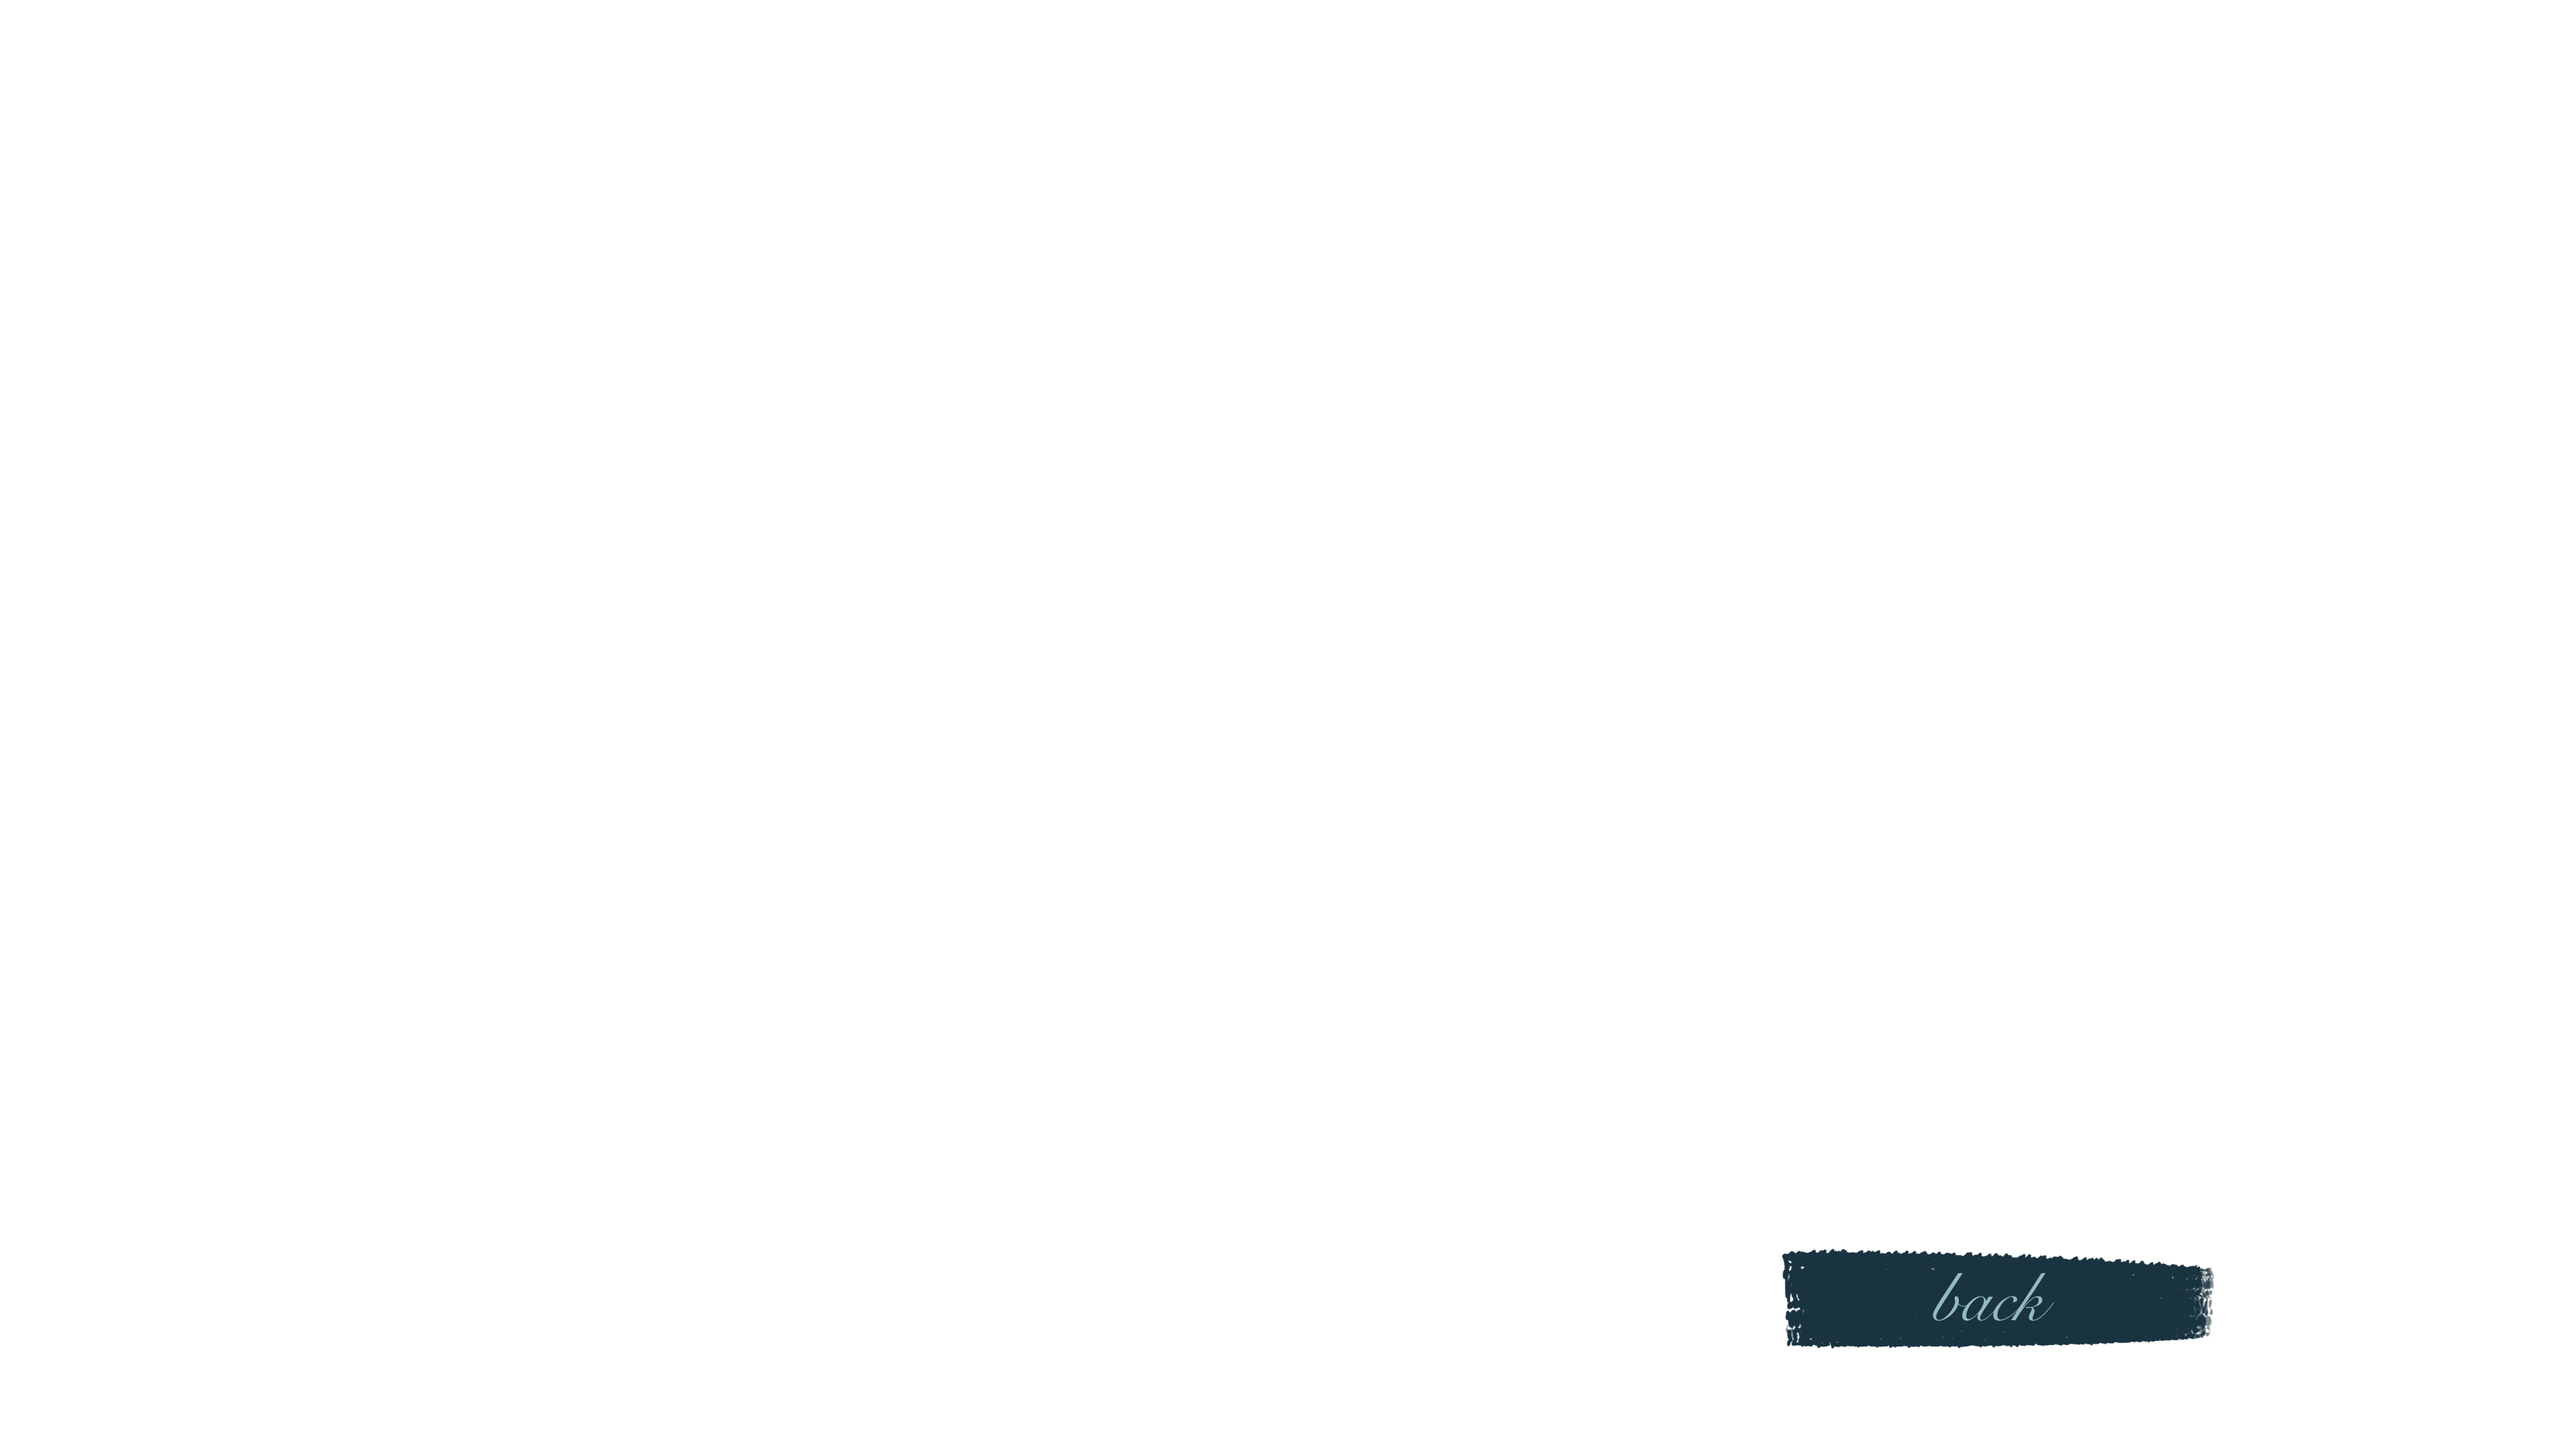
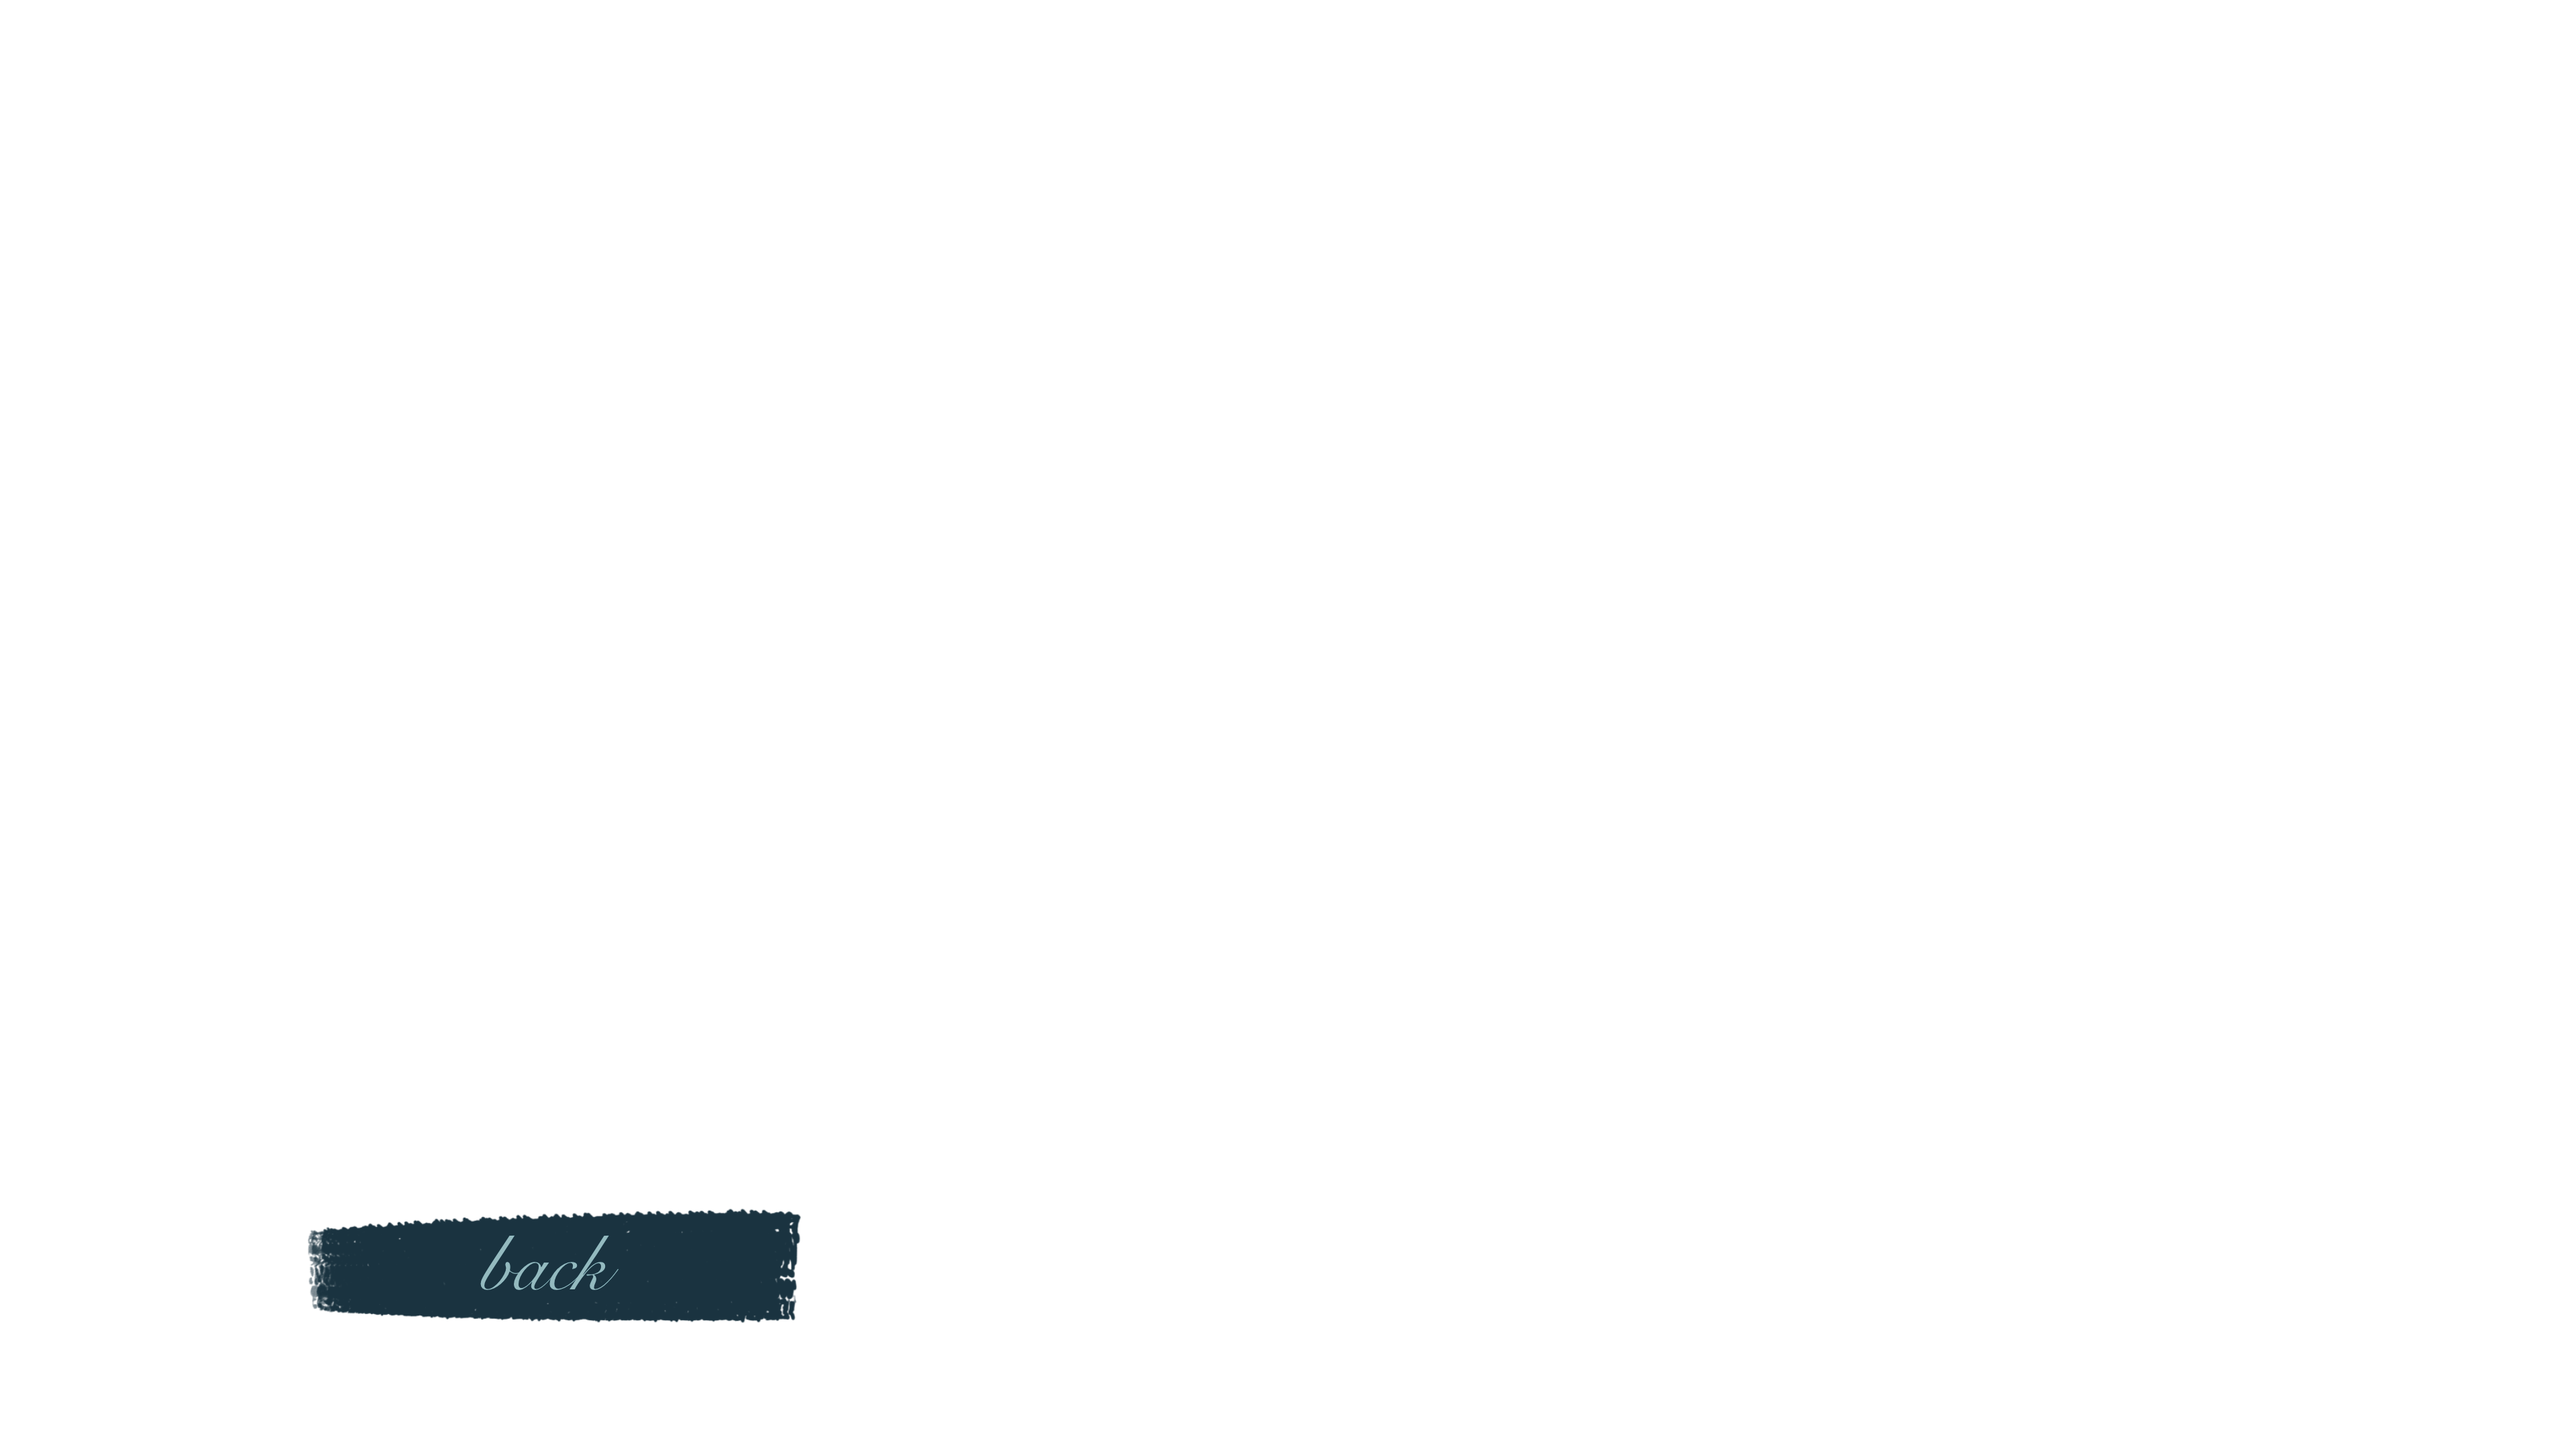
poprawki przycisków V2
ATAAAAAAAK

klonów

Changed region(s): [[0.0938, 0.8375, 0.3125, 0.9306], [0.6875, 0.8375, 0.875, 0.9306]]

diff --git a/ZTGKEngine/src/managers/SceneManager.h b/ZTGKEngine/src/managers/SceneManager.h
@@ -116,7 +116,8 @@ public:
 
 	void MenuSetup()
 	{
-		//menu->SetActive(false);
+#pragma region Menu
+
 		GraphNode* credits = new GraphNode();
 		GraphNode* options = new GraphNode();
 		GraphNode* firstTimeGameMode = new GraphNode();
@@ -166,6 +167,7 @@ public:
 		exitBtn->AddScript(new ActivateOnHoverScript(exitBtn, exitHover, true));
 		exitHover->AddScript(new DeactivateOnMouseLeave(exitHover));
 		exitHover->AddScript(new MenuScript(exitHover, menu, window, "exit"));
+#pragma endregion 
 
 #pragma region Credits
 		menu->AddChild(credits);
@@ -174,10 +176,8 @@ public:
 		GraphNode* creditsPNG = CreateUiElement(0, 0, *SCR_WIDTH, *SCR_HEIGHT, "res/models/awesome.jpg", textureShader);
 		credits->AddChild(creditsPNG);
 
-		GraphNode* backCredBtn = CreateUiElement(0, 0, *SCR_WIDTH, *SCR_HEIGHT, "res/models/optionsy/backBtn.png", textureShader);
-		GraphNode* backCredHover = CreateUiElement(0, 0, *SCR_WIDTH, *SCR_HEIGHT, "res/models/optionsy/backHover.png", textureShader);
-		//backCredBtn->Translate(glm::vec3(1200, 0, 0));
-		//backCredHover->Translate(glm::vec3(1200, 0, 0));
+		GraphNode* backCredBtn = CreateUiElement(0, 0, *SCR_WIDTH, *SCR_HEIGHT, "res/models/startGame/backBtn.png", textureShader);
+		GraphNode* backCredHover = CreateUiElement(0, 0, *SCR_WIDTH, *SCR_HEIGHT, "res/models/startGame/backHover.png", textureShader);
 		credits->AddChild(backCredBtn);
 		credits->AddChild(backCredHover);
 		backCredHover->SetActive(false);
@@ -194,8 +194,8 @@ public:
 		GraphNode* optionsBG = CreateUiElement(0, 0, *SCR_WIDTH, *SCR_HEIGHT, "res/models/optionsy/options_sounds.png", textureShader);
 		options->AddChild(optionsBG);
 
-		GraphNode* backOptBtn = CreateUiElement(0, 0, *SCR_WIDTH, *SCR_HEIGHT, "res/models/menu/menu_exit_button.png", textureShader);
-		GraphNode* backOptHover = CreateUiElement(0, 0, *SCR_WIDTH, *SCR_HEIGHT, "res/models/menu/menu_exit_button_hover.png", textureShader);
+		GraphNode* backOptBtn = CreateUiElement(0, 0, *SCR_WIDTH, *SCR_HEIGHT, "res/models/optionsy/backBtn.png", textureShader);
+		GraphNode* backOptHover = CreateUiElement(0, 0, *SCR_WIDTH, *SCR_HEIGHT, "res/models/optionsy/backHover.png", textureShader);
 		options->AddChild(backOptBtn);
 		options->AddChild(backOptHover);
 		backOptHover->SetActive(false);
@@ -228,27 +228,29 @@ public:
 
 		GraphNode* easyModeBtn = CreateUiElement(0, 0, *SCR_WIDTH, *SCR_HEIGHT, "res/models/optionsy/easyBtn.png", textureShader);
 		GraphNode* easyModeHover = CreateUiElement(0, 0, *SCR_WIDTH, *SCR_HEIGHT, "res/models/optionsy/easyHover.png", textureShader);
-		//easyModeBtn->Translate(glm::vec3(0, 400, 0));
-		//easyModeHover->Translate(glm::vec3(0, 400, 0));
+		GraphNode* easyModeChosen = CreateUiElement(0, 0, *SCR_WIDTH, *SCR_HEIGHT, "res/models/optionsy/easyChosen.png", textureShader);
 		options->AddChild(easyModeBtn);
 		options->AddChild(easyModeHover);
+		options->AddChild(easyModeChosen);
 		easyModeHover->SetActive(false);
+		easyModeChosen->SetActive(false);
 		easyModeBtn->AddScript(new ActivateOnHoverScript(easyModeBtn, easyModeHover, true));
 		easyModeHover->AddScript(new DeactivateOnMouseLeave(easyModeHover));
-		easyModeBtn->AddScript(new OptionsScript(easyModeBtn, "easy", true));
+		easyModeBtn->AddScript(new OptionsScript(easyModeBtn, "easy", true, easyModeChosen));
 		easyModeHover->AddScript(new OptionsScript(easyModeHover, "easy"));
 
-		GraphNode* mediumModeBtn = CreateUiElement(0, 0, *SCR_WIDTH, *SCR_HEIGHT, "res/models/optionsy/mediumBtn.png", textureShader);
-		GraphNode* mediumModeHover = CreateUiElement(0, 0, *SCR_WIDTH, *SCR_HEIGHT, "res/models/optionsy/mediumHover.png", textureShader);
-		//mediumModeBtn->Translate(glm::vec3(400, 400, 0));
-		//mediumModeHover->Translate(glm::vec3(400, 400, 0));
-		options->AddChild(mediumModeBtn);
-		options->AddChild(mediumModeHover);
-		mediumModeHover->SetActive(false);
-		mediumModeBtn->AddScript(new ActivateOnHoverScript(mediumModeBtn, mediumModeHover, true));
-		mediumModeHover->AddScript(new DeactivateOnMouseLeave(mediumModeHover));
-		mediumModeBtn->AddScript(new OptionsScript(mediumModeBtn, "medium", true));
-		mediumModeHover->AddScript(new OptionsScript(mediumModeHover, "medium"));
+		GraphNode* normalModeBtn = CreateUiElement(0, 0, *SCR_WIDTH, *SCR_HEIGHT, "res/models/optionsy/normalBtn.png", textureShader);
+		GraphNode* normalModeHover = CreateUiElement(0, 0, *SCR_WIDTH, *SCR_HEIGHT, "res/models/optionsy/normalHover.png", textureShader);
+		GraphNode* normalModeChoosen = CreateUiElement(0, 0, *SCR_WIDTH, *SCR_HEIGHT, "res/models/optionsy/normalChosen.png", textureShader);
+		options->AddChild(normalModeBtn);
+		options->AddChild(normalModeHover);
+		options->AddChild(normalModeChoosen);
+		normalModeHover->SetActive(false);
+		normalModeChoosen->SetActive(false);
+		normalModeBtn->AddScript(new ActivateOnHoverScript(normalModeBtn, normalModeHover, true));
+		normalModeHover->AddScript(new DeactivateOnMouseLeave(normalModeHover));
+		normalModeBtn->AddScript(new OptionsScript(normalModeBtn, "normal", true, normalModeChoosen));
+		normalModeHover->AddScript(new OptionsScript(normalModeHover, "normal"));
 
 #pragma endregion 		
 
@@ -291,14 +293,11 @@ public:
 		GraphNode* windowPNG = CreateUiElement(0, 0, *SCR_WIDTH, *SCR_HEIGHT, "res/models/dark_house.png", textureShader);
 		firstTimeGameMode->AddChild(windowPNG);
 
-		GraphNode* infoPNG = CreateUiElement(0, 0, *SCR_WIDTH, *SCR_HEIGHT, "res/models/optionsy/difficulty.png", textureShader);
+		GraphNode* infoPNG = CreateUiElement(0, 0, *SCR_WIDTH, *SCR_HEIGHT, "res/models/startGame/dificulty.png", textureShader);
 		firstTimeGameMode->AddChild(infoPNG);
-		infoPNG->Translate(glm::vec3(1000, 200, 0));
 
-		GraphNode* backGmBtn = CreateUiElement(0, 0, *SCR_WIDTH, *SCR_HEIGHT, "res/models/optionsy/backBtn.png", textureShader);
-		GraphNode* backGmHover = CreateUiElement(0, 0, *SCR_WIDTH, *SCR_HEIGHT, "res/models/optionsy/backHover.png", textureShader);
-		//backGmBtn->Translate(glm::vec3(1000, 0, 0));
-		//backGmHover->Translate(glm::vec3(1000, 0, 0));
+		GraphNode* backGmBtn = CreateUiElement(0, 0, *SCR_WIDTH, *SCR_HEIGHT, "res/models/startGame/startBtn.png", textureShader);
+		GraphNode* backGmHover = CreateUiElement(0, 0, *SCR_WIDTH, *SCR_HEIGHT, "res/models/startGame/startHover.png", textureShader);
 		firstTimeGameMode->AddChild(backGmBtn);
 		firstTimeGameMode->AddChild(backGmHover);
 		backGmHover->SetActive(false);
@@ -313,11 +312,9 @@ public:
 			gameModePieces[4]
 		));
 
-		GraphNode* easyGmBtn = CreateUiElement(0, 0, *SCR_WIDTH, *SCR_HEIGHT, "res/models/optionsy/easyBtn.png", textureShader);
-		GraphNode* easyGmHover = CreateUiElement(0, 0, *SCR_WIDTH, *SCR_HEIGHT, "res/models/optionsy/easyHover.png", textureShader);
-		GraphNode* easyGmChoosen = CreateUiElement(0, 0, *SCR_WIDTH, *SCR_HEIGHT, "res/models/optionsy/easyChosen.png", textureShader);
-		easyGmBtn->Translate(glm::vec3(1000, 200, 0));
-		easyGmHover->Translate(glm::vec3(1000, 200, 0));
+		GraphNode* easyGmBtn = CreateUiElement(0, 0, *SCR_WIDTH, *SCR_HEIGHT, "res/models/startGame/easyBtn.png", textureShader);
+		GraphNode* easyGmHover = CreateUiElement(0, 0, *SCR_WIDTH, *SCR_HEIGHT, "res/models/startGame/easyHover.png", textureShader);
+		GraphNode* easyGmChoosen = CreateUiElement(0, 0, *SCR_WIDTH, *SCR_HEIGHT, "res/models/startGame/easyChosen.png", textureShader);
 		firstTimeGameMode->AddChild(easyGmBtn);
 		firstTimeGameMode->AddChild(easyGmHover);
 		firstTimeGameMode->AddChild(easyGmChoosen);
@@ -328,20 +325,18 @@ public:
 		easyGmBtn->AddScript(new OptionsScript(easyGmBtn, "easy", true, easyGmChoosen));
 		easyGmHover->AddScript(new OptionsScript(easyGmHover, "easy"));
 
-		GraphNode* mediumGmBtn = CreateUiElement(0, 0, *SCR_WIDTH, *SCR_HEIGHT, "res/models/optionsy/normalBtn.png", textureShader);
-		GraphNode* mediumGmHover = CreateUiElement(0, 0, *SCR_WIDTH, *SCR_HEIGHT, "res/models/optionsy/normalHover.png", textureShader);
-		GraphNode* normalGmChoosen = CreateUiElement(0, 0, *SCR_WIDTH, *SCR_HEIGHT, "res/models/optionsy/normalChosen.png", textureShader);
-		//mediumGmBtn->Translate(glm::vec3(1000, 200, 0));
-		//mediumGmHover->Translate(glm::vec3(1000, 200, 0));
-		firstTimeGameMode->AddChild(mediumGmBtn);
-		firstTimeGameMode->AddChild(mediumGmHover);
+		GraphNode* normalGmBtn = CreateUiElement(0, 0, *SCR_WIDTH, *SCR_HEIGHT, "res/models/startGame/normalBtn.png", textureShader);
+		GraphNode* normalGmHover = CreateUiElement(0, 0, *SCR_WIDTH, *SCR_HEIGHT, "res/models/startGame/normalHover.png", textureShader);
+		GraphNode* normalGmChoosen = CreateUiElement(0, 0, *SCR_WIDTH, *SCR_HEIGHT, "res/models/startGame/normalChosen.png", textureShader);
+		firstTimeGameMode->AddChild(normalGmBtn);
+		firstTimeGameMode->AddChild(normalGmHover);
 		firstTimeGameMode->AddChild(normalGmChoosen);
-		mediumGmHover->SetActive(false);
+		normalGmHover->SetActive(false);
 		normalGmChoosen->SetActive(false);
-		mediumGmBtn->AddScript(new ActivateOnHoverScript(mediumGmBtn, mediumGmHover, true));
-		mediumGmHover->AddScript(new DeactivateOnMouseLeave(mediumGmHover));
-		mediumGmBtn->AddScript(new OptionsScript(mediumGmBtn, "medium", true, normalGmChoosen));
-		mediumGmHover->AddScript(new OptionsScript(mediumGmHover, "medium"));
+		normalGmBtn->AddScript(new ActivateOnHoverScript(normalGmBtn, normalGmHover, true));
+		normalGmHover->AddScript(new DeactivateOnMouseLeave(normalGmHover));
+		normalGmBtn->AddScript(new OptionsScript(normalGmBtn, "normal", true, normalGmChoosen));
+		normalGmHover->AddScript(new OptionsScript(normalGmHover, "normal"));
 
 #pragma endregion 
 

diff --git a/ZTGKEngine/src/main.cpp b/ZTGKEngine/src/main.cpp
@@ -6,15 +6,15 @@
 #include "SoundDevice.h"
 #include "Music.h"
 //#include "./utils/soundUtils.h"
-//extern "C"
-//{
-//    __declspec(dllexport) unsigned long NvOptimusEnablement = 0x00000001;
-//}
-//
-//extern "C"
-//{
-//    __declspec(dllexport) int AmdPowerXpressRequestHighPerformance = 1;
-//}
+extern "C"
+{
+    __declspec(dllexport) unsigned long NvOptimusEnablement = 0x00000001;
+}
+
+extern "C"
+{
+    __declspec(dllexport) int AmdPowerXpressRequestHighPerformance = 1;
+}
 
 void framebuffer_size_callback(GLFWwindow* window, int width, int height);
 void mouse_callback(GLFWwindow* window, double xpos, double ypos);

diff --git a/ZTGKEngine/src/scripts/OptionsScript.h b/ZTGKEngine/src/scripts/OptionsScript.h
@@ -46,7 +46,7 @@ public:
 			}
 			else
 			{
-				if (buttonId == "medium")
+				if (buttonId == "normal")
 				{
 					node->isHoverable = false;
 					choosen->SetActive(true);
@@ -85,7 +85,7 @@ public:
 			if (!isNotHover)
 				node->SetActive(false);
 		}
-		else if (buttonId == "medium")
+		else if (buttonId == "normal")
 		{
 			ApTime::instance().isEasyMode = false;
 			if (!isNotHover)
